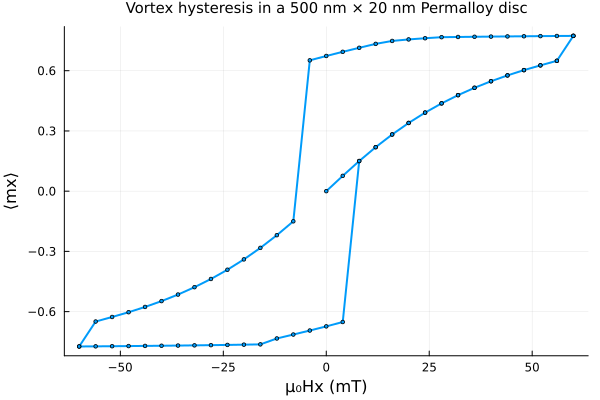
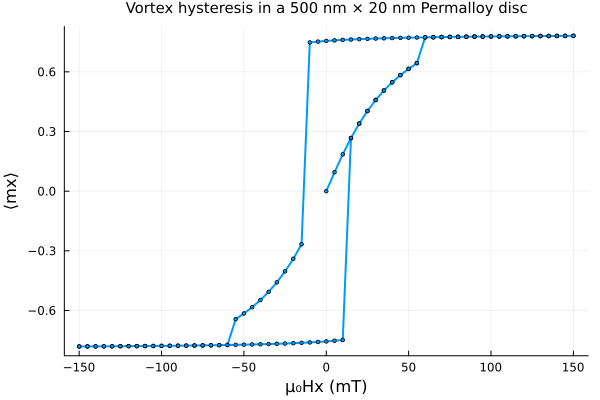
Sweep the vortex hysteresis over ±150 mT and save the output table
Widen the disc hysteresis field sweep to ±150 mT (from ±60 mT) so the disc
reaches its saturated branch well past vortex annihilation, and write a
tab-separated output table (t, mx, my, mz, B_ext) via savequantities!/savenow!.
The saturated plateau sits at ⟨mx⟩ ≈ 0.78, not 1: a thin disc never magnetizes
fully in-plane because shape demag keeps the edge spins curled. Update Tutorial 2
in the manual to match (table output, correct plateau).

diff --git a/docs/manual.md b/docs/manual.md
@@ -182,34 +182,50 @@ setmag!(sim, VortexConfig(mesh; circ = 1, pol = 1))  # circulation +1, core +z
 the core polarity `pol = ±1` (`±z`); place the core off-centre with
 `translate(VortexConfig(mesh), 40e-9, 0, 0)`.
 
-**Step 3 — sweep the in-plane field and record ⟨mx⟩.** Ramp the field along `x`
-from 0 up to `+Bmax`, down to `−Bmax`, and back, relaxing at each step. Starting
-each relaxation from the previous state is what makes it a hysteresis loop.
+**Step 3 — choose what to save.** Add the applied field to the output table;
+time and ⟨m⟩ are always the first columns, so each row will hold
+`t, mx, my, mz, B_extx, B_exty, B_extz`.
 
 ```julia
-Bmax, dB = 0.06, 0.004                               # tesla
+savequantities!(sim, q_Bext())
+```
+
+**Step 4 — sweep the in-plane field and record it.** Ramp the field along `x`
+from 0 up to `+Bmax`, down to `−Bmax`, and back, relaxing at each step and
+writing one table row per step with `savenow!`. Starting each relaxation from the
+previous state is what makes it a hysteresis loop. We sweep over ±150 mT — well
+past the vortex-annihilation field — so the disc reaches its saturated branch and
+the plateau is flat at both ends.
+
+```julia
+Bmax, dB = 0.15, 0.005                               # tesla
 Bs = vcat(0:dB:Bmax, Bmax:-dB:-Bmax, -Bmax:dB:Bmax)
 
 mxs = Float64[]
 for B in Bs
     JuliaMag.setexternalfield!(sim.world, (B, 0.0, 0.0))
     relax!(sim; stopdm = 1e-6)
+    savenow!(sim)                                    # one row: Bx, mx, my, mz…
     push!(mxs, average(sim.m)[1])
 end
 
+writetable(sim.table, "disc_hysteresis.txt")
 @printf("⟨mx⟩ range [%.3f, %.3f]\n", minimum(mxs), maximum(mxs))
 ```
 
 Plotting `mxs` against `Bs` gives the S-shaped vortex loop: `⟨mx⟩ = 0` at zero
 field (the centred vortex), a nearly linear reversible rise as the core is pushed
-toward the edge, then an abrupt jump to saturation (`⟨mx⟩ ≈ ±0.77`) where the
-vortex annihilates, and a jump back as it renucleates on the return branch. This
-is a sizeable run (~8 minutes: 40k cells over ~80 field steps). A ready-to-run
-version with the plot is
+toward the edge, then an abrupt jump to the saturated branch (`⟨mx⟩ ≈ ±0.78`)
+where the vortex annihilates, and a jump back as it renucleates on the return
+branch. The plateau sits below 1 because a thin disc never magnetizes fully
+in-plane — shape demagnetization keeps the edge spins curled even at 150 mT. The
+`disc_hysteresis.txt` table holds `Bx` alongside `⟨mx,my,mz⟩` for each field
+step. This is a sizeable run (~13 minutes: 40k cells over ~120 field steps). A
+ready-to-run version with the plot is
 [`examples/disc_hysteresis.jl`](../examples/disc_hysteresis.jl).
 
 You can also track the core position through the loop by adding `q_vortexcore()`
-to the output table and calling `savenow!(sim)` at each field step.
+to `savequantities!`.
 
 ---
 
